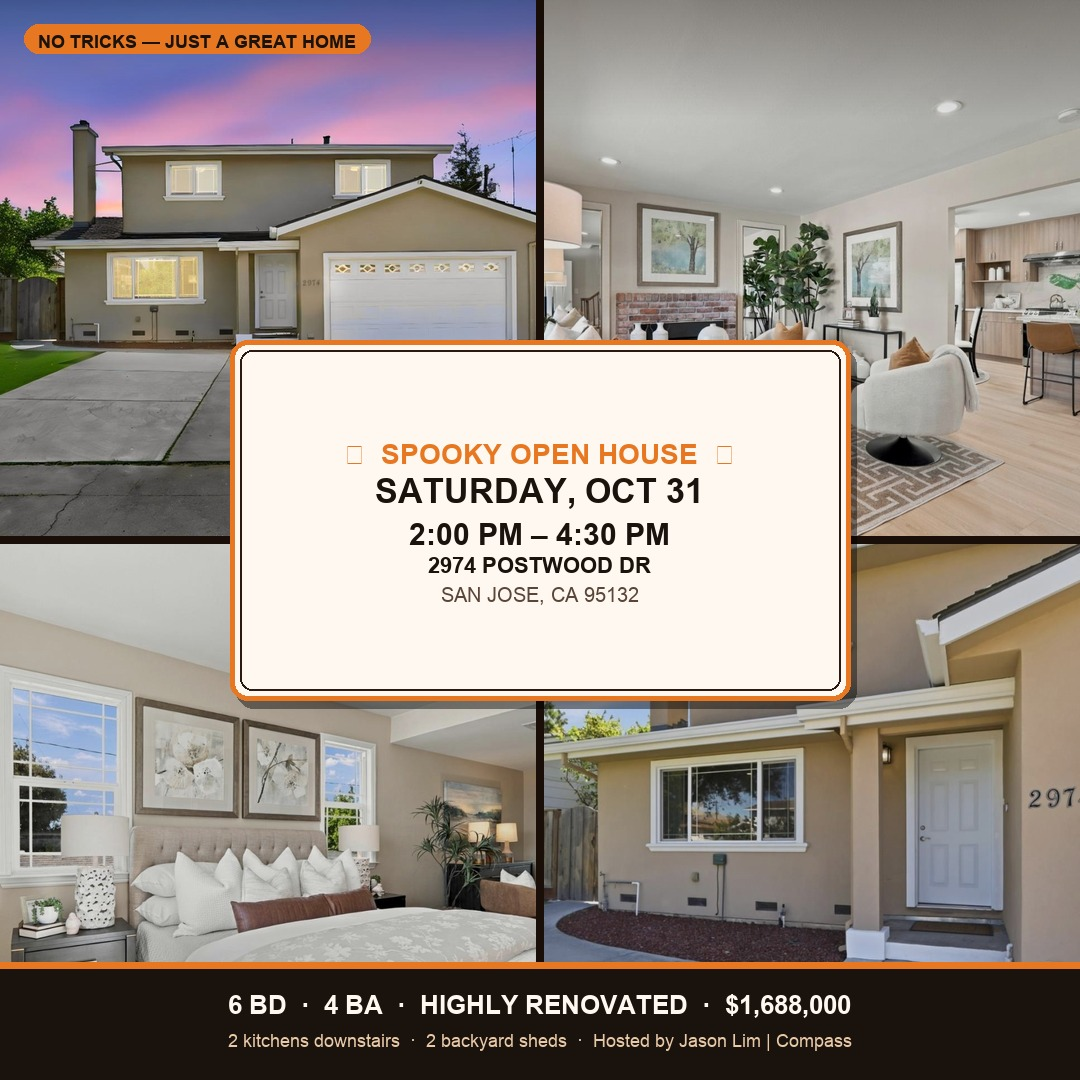
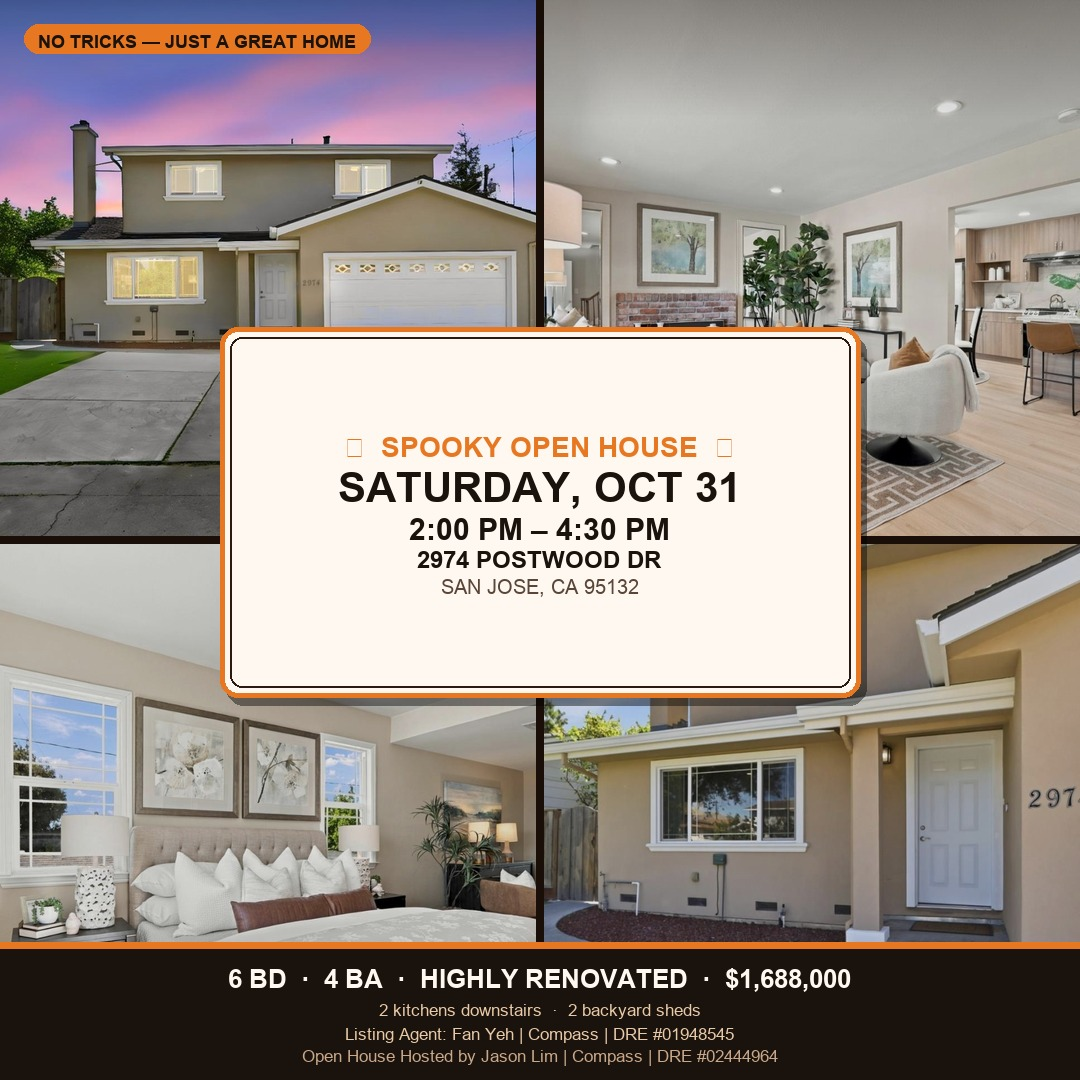
Credit Fan Yeh as listing agent on Postwood Halloween creatives.
Add Fan Yeh (DRE #01948545) to IG/story graphics and the Halloween
open-house blog copy; Jason remains open-house host.

Changed region(s): [[0.1833, 0.275, 0.825, 0.6722], [0.0, 0.8556, 1.0, 1.0], [0.3056, 0.3972, 0.7028, 0.5806]]

diff --git a/src/data/mock-blog.ts b/src/data/mock-blog.ts
@@ -30,6 +30,10 @@ This is a gorgeous, highly renovated 6-bed / 4-full-bath home with a flexible la
 
 If you've been waiting for square footage, functionality, and finish quality in one package — this is an amazing opportunity. Come walk it with me Saturday afternoon.
 
+Listing Agent: Fan Yeh | Compass | DRE #01948545
+https://www.compass.com/agents/fan-yeh/
+Open House Hosted by Jason Lim | Compass | DRE #02444964
+
 Sunday — Spooky Open House #2
 
 📍 255 S Rengstorff Avenue, Unit 42, Mountain View
